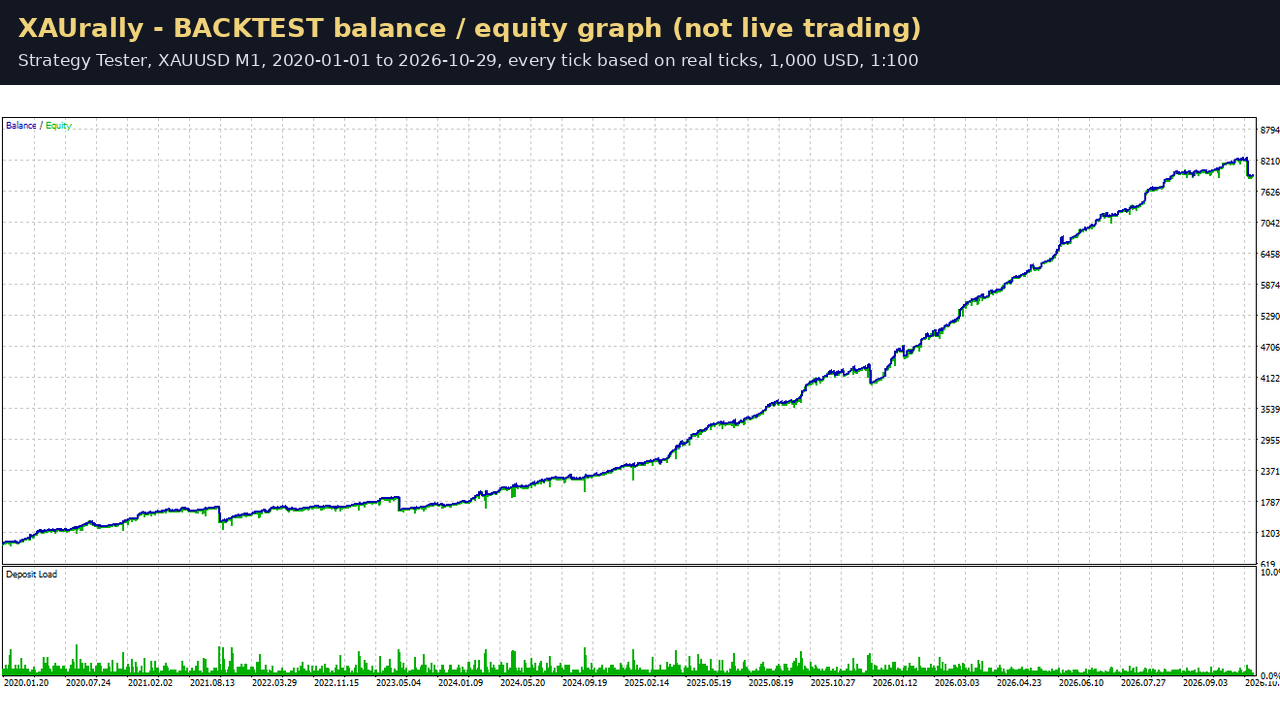
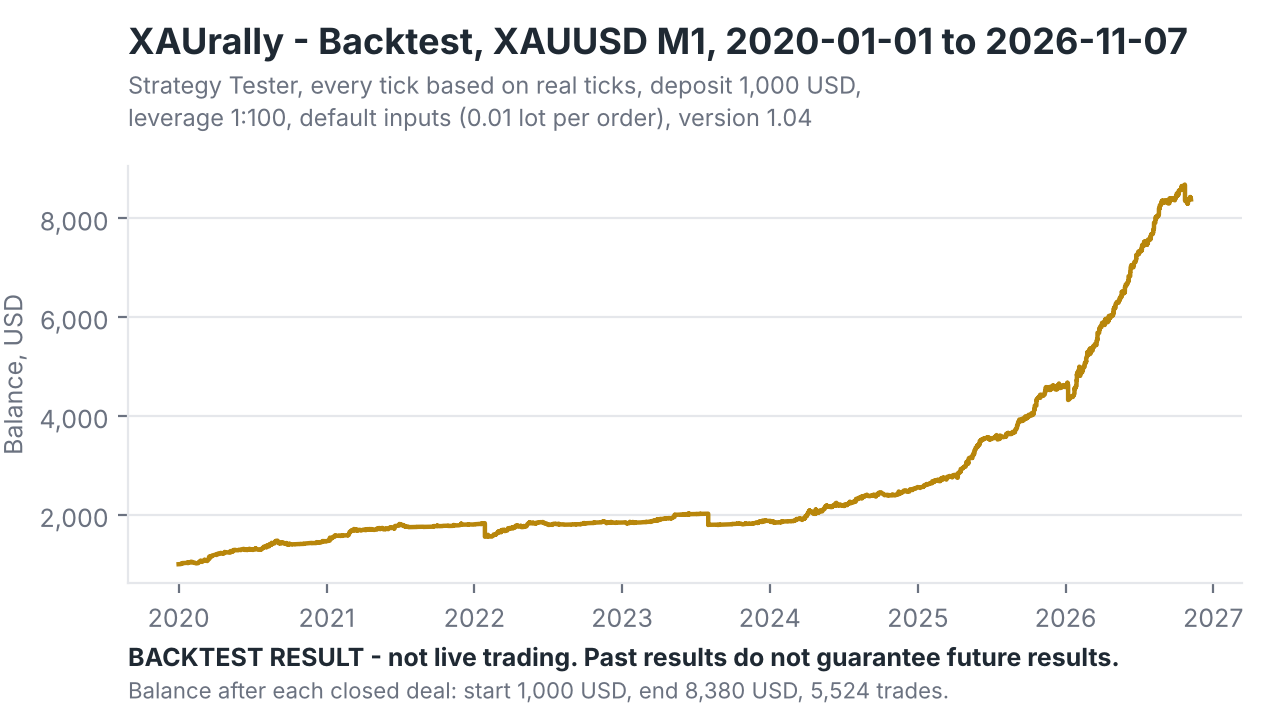
XAUrally page: backtest figures from version 1.04 run (2020 to 7 Nov 2026), add last-12-month charts
Claude-Session: https://claude.ai/code/session_01Db99M4MZdmGM9QKhAh6oVB

diff --git a/xaurally/index.html b/xaurally/index.html
@@ -248,33 +248,33 @@
 
     <figure class="chart" aria-labelledby="chart-cap">
       <div class="plot">
-        <svg viewBox="0 0 1000 300" preserveAspectRatio="none" role="img" aria-label="Backtest balance from 1,000 USD in January 2020 to 7,886 USD in October 2026, with a flat stretch in 2022 and 2023.">
-          <rect class="band" x="293.2" y="0" width="292.8" height="300"/>
+        <svg viewBox="0 0 1000 300" preserveAspectRatio="none" role="img" aria-label="Backtest balance from 1,000 USD in January 2020 to 8,380 USD in November 2026, with a flat stretch in 2022 and 2023.">
+          <rect class="band" x="292.2" y="0" width="291.7" height="300"/>
           <g class="grid">
-<line x1="0" x2="1000" y1="252.6" y2="252.6"/>
-<line x1="0" x2="1000" y1="173.7" y2="173.7"/>
-<line x1="0" x2="1000" y1="94.7" y2="94.7"/>
-<line x1="0" x2="1000" y1="15.8" y2="15.8"/>
+<line x1="0" x2="1000" y1="256.1" y2="256.1"/>
+<line x1="0" x2="1000" y1="182.9" y2="182.9"/>
+<line x1="0" x2="1000" y1="109.8" y2="109.8"/>
+<line x1="0" x2="1000" y1="36.6" y2="36.6"/>
           </g>
-          <path class="line" pathLength="1" d="M0.0,291.7 L2.1,291.0 L4.2,290.9 L6.3,290.9 L8.4,290.6 L10.4,290.1 L12.5,290.8 L14.6,291.0 L16.7,291.5 L18.8,290.6 L20.9,289.5 L23.0,290.1 L25.1,288.4 L27.1,288.9 L29.2,286.3 L31.3,284.7 L33.4,284.5 L35.5,283.9 L37.6,283.3 L39.7,283.0 L41.8,282.8 L43.8,282.0 L45.9,282.5 L48.0,282.7 L50.1,282.7 L52.2,282.1 L54.3,282.1 L56.4,282.4 L58.5,282.5 L60.5,282.4 L62.6,281.8 L64.7,282.2 L66.8,281.8 L68.9,281.6 L71.0,281.7 L73.1,282.3 L75.2,281.8 L77.2,282.6 L79.3,282.3 L81.4,281.8 L83.5,280.1 L85.6,279.7 L87.7,279.5 L89.8,277.9 L91.9,277.1 L93.9,276.3 L96.0,275.4 L98.1,277.5 L100.2,277.0 L102.3,277.9 L104.4,278.5 L106.5,278.7 L108.6,279.0 L110.6,279.5 L112.7,279.5 L114.8,279.5 L116.9,279.3 L119.0,279.3 L121.1,279.3 L123.2,279.0 L125.3,278.8 L127.3,278.8 L129.4,278.7 L131.5,278.6 L133.6,278.6 L135.7,278.2 L137.8,278.1 L139.9,278.0 L142.0,277.3 L144.1,277.5 L146.1,277.4 L148.2,276.1 L150.3,275.4 L152.4,274.6 L154.5,273.6 L156.6,273.8 L158.7,273.8 L160.8,273.8 L162.8,273.4 L164.9,273.4 L167.0,272.7 L169.1,270.5 L171.2,269.9 L173.3,269.0 L175.4,269.6 L177.5,269.3 L179.5,270.2 L181.6,268.9 L183.7,269.3 L185.8,268.8 L187.9,268.3 L190.0,268.3 L192.1,268.6 L194.2,268.9 L196.2,266.9 L198.3,267.8 L200.4,266.8 L202.5,267.6 L204.6,267.7 L206.7,267.7 L208.8,266.8 L210.9,267.2 L212.9,266.8 L215.0,266.6 L217.1,266.5 L219.2,266.2 L221.3,266.7 L223.4,267.2 L225.5,267.6 L227.6,267.9 L229.6,267.9 L231.7,267.9 L233.8,267.9 L235.9,267.6 L238.0,267.6 L240.1,267.5 L242.2,267.8 L244.3,267.7 L246.3,267.7 L248.4,267.7 L250.5,267.6 L252.6,267.2 L254.7,267.1 L256.8,267.0 L258.9,267.0 L261.0,266.8 L263.0,266.8 L265.1,266.9 L267.2,267.1 L269.3,267.1 L271.4,266.8 L273.5,266.7 L275.6,266.7 L277.7,266.5 L279.7,266.1 L281.8,266.1 L283.9,266.1 L286.0,265.9 L288.1,265.9 L290.2,265.9 L292.3,265.7 L294.4,265.5 L296.5,265.3 L298.5,265.3 L300.6,264.9 L302.7,275.5 L304.8,275.3 L306.9,275.4 L309.0,275.4 L311.1,273.8 L313.2,273.6 L315.2,272.9 L317.3,271.6 L319.4,269.9 L321.5,270.0 L323.6,270.7 L325.7,268.7 L327.8,268.7 L329.9,268.9 L331.9,268.6 L334.0,267.0 L336.1,267.7 L338.2,268.2 L340.3,268.7 L342.4,268.1 L344.5,266.9 L346.6,265.1 L348.6,265.8 L350.7,265.9 L352.8,265.9 L354.9,265.1 L357.0,264.6 L359.1,264.7 L361.2,265.6 L363.3,266.1 L365.3,267.3 L367.4,266.3 L369.5,266.7 L371.6,265.9 L373.7,266.3 L375.8,266.2 L377.9,266.7 L380.0,266.6 L382.0,266.9 L384.1,266.9 L386.2,266.8 L388.3,266.8 L390.4,266.7 L392.5,266.8 L394.6,266.7 L396.7,266.7 L398.7,266.3 L400.8,266.0 L402.9,265.8 L405.0,265.7 L407.1,265.7 L409.2,265.7 L411.3,265.3 L413.4,265.1 L415.4,265.1 L417.5,265.0 L419.6,264.4 L421.7,264.5 L423.8,264.7 L425.9,264.8 L428.0,264.4 L430.1,265.0 L432.2,265.2 L434.2,264.8 L436.3,265.0 L438.4,264.9 L440.5,264.8 L442.6,264.8 L444.7,265.6 L446.8,265.2 L448.9,264.9 L450.9,265.0 L453.0,264.8 L455.1,264.8 L457.2,264.7 L459.3,264.5 L461.4,264.5 L463.5,264.4 L465.6,264.4 L467.6,264.1 L469.7,263.1 L471.8,262.9 L473.9,262.5 L476.0,262.2 L478.1,261.5 L480.2,261.3 L482.3,261.3 L484.3,261.4 L486.4,261.1 L488.5,260.8 L490.6,258.7 L492.7,258.7 L494.8,258.7 L496.9,258.6 L499.0,258.8 L501.0,258.6 L503.1,258.3 L505.2,258.2 L507.3,258.2 L509.4,258.2 L511.5,258.1 L513.6,258.1 L515.7,257.9 L517.7,258.0 L519.8,257.9 L521.9,257.9 L524.0,258.0 L526.1,266.7 L528.2,266.7 L530.3,266.7 L532.4,266.7 L534.4,266.7 L536.5,266.5 L538.6,266.4 L540.7,266.4 L542.8,266.4 L544.9,266.2 L547.0,266.2 L549.1,265.9 L551.1,265.9 L553.2,265.7 L555.3,265.7 L557.4,265.7 L559.5,266.2 L561.6,265.7 L563.7,265.7 L565.8,265.7 L567.8,265.6 L569.9,265.3 L572.0,264.8 L574.1,264.8 L576.2,263.4 L578.3,262.8 L580.4,262.4 L582.5,262.3 L584.6,262.8 L586.6,263.2 L588.7,263.3 L590.8,263.9 L592.9,263.6 L595.0,263.6 L597.1,263.2 L599.2,262.9 L601.3,262.8 L603.3,262.9 L605.4,262.7 L607.5,262.6 L609.6,262.1 L611.7,261.1 L613.8,261.0 L615.9,260.9 L618.0,260.6 L620.0,259.6 L622.1,257.7 L624.2,256.0 L626.3,254.4 L628.4,255.7 L630.5,256.4 L632.6,255.2 L634.7,254.2 L636.7,254.5 L638.8,253.4 L640.9,250.8 L643.0,250.9 L645.1,251.0 L647.2,251.3 L649.3,249.6 L651.4,249.4 L653.4,249.5 L655.5,249.3 L657.6,249.7 L659.7,249.2 L661.8,249.8 L663.9,248.2 L666.0,247.5 L668.1,247.5 L670.1,246.6 L672.2,245.6 L674.3,245.0 L676.4,244.5 L678.5,243.6 L680.6,242.6 L682.7,242.9 L684.8,243.4 L686.8,243.3 L688.9,243.1 L691.0,243.6 L693.1,241.8 L695.2,241.7 L697.3,242.1 L699.4,243.8 L701.5,243.5 L703.5,243.6 L705.6,243.8 L707.7,243.2 L709.8,243.9 L711.9,243.3 L714.0,242.2 L716.1,241.7 L718.2,240.5 L720.3,240.4 L722.3,241.2 L724.4,239.7 L726.5,239.9 L728.6,239.2 L730.7,238.6 L732.8,238.0 L734.9,238.7 L737.0,238.4 L739.0,236.9 L741.1,236.0 L743.2,237.0 L745.3,236.0 L747.4,234.4 L749.5,233.5 L751.6,233.8 L753.7,234.3 L755.7,234.1 L757.8,232.1 L759.9,232.9 L762.0,231.5 L764.1,230.3 L766.2,230.8 L768.3,229.7 L770.4,230.5 L772.4,229.7 L774.5,229.2 L776.6,226.1 L778.7,222.7 L780.8,219.7 L782.9,217.4 L785.0,216.0 L787.1,214.9 L789.1,210.9 L791.2,208.5 L793.3,207.3 L795.4,203.2 L797.5,203.0 L799.6,202.3 L801.7,201.9 L803.8,203.3 L805.8,202.9 L807.9,202.4 L810.0,202.1 L812.1,203.4 L814.2,200.5 L816.3,201.3 L818.4,201.8 L820.5,199.3 L822.5,198.7 L824.6,199.1 L826.7,197.4 L828.8,196.9 L830.9,193.1 L833.0,190.1 L835.1,190.0 L837.2,189.4 L839.2,185.9 L841.3,187.0 L843.4,188.2 L845.5,185.7 L847.6,184.2 L849.7,178.8 L851.8,171.8 L853.9,171.9 L855.9,169.8 L858.0,170.7 L860.1,164.3 L862.2,165.7 L864.3,164.2 L866.4,164.6 L868.5,165.4 L870.6,166.3 L872.7,162.8 L874.7,164.0 L876.8,161.6 L878.9,162.2 L881.0,160.1 L883.1,171.8 L885.2,169.9 L887.3,168.2 L889.4,158.9 L891.4,147.8 L893.5,152.0 L895.6,149.3 L897.7,148.1 L899.8,143.6 L901.9,138.2 L904.0,133.7 L906.1,132.7 L908.1,127.2 L910.2,124.4 L912.3,118.3 L914.4,113.4 L916.5,111.0 L918.6,108.4 L920.7,109.0 L922.8,104.1 L924.8,103.2 L926.9,99.2 L929.0,94.3 L931.1,93.7 L933.2,89.8 L935.3,85.1 L937.4,87.7 L939.5,81.4 L941.5,77.7 L943.6,70.0 L945.7,68.0 L947.8,64.4 L949.9,59.2 L952.0,57.2 L954.1,55.2 L956.2,51.7 L958.2,46.3 L960.3,48.2 L962.4,44.9 L964.5,41.9 L966.6,38.0 L968.7,27.7 L970.8,27.2 L972.9,21.5 L974.9,15.5 L977.0,16.7 L979.1,16.9 L981.2,19.0 L983.3,16.4 L985.4,15.2 L987.5,16.2 L989.6,13.3 L991.6,9.9 L993.7,8.8 L995.8,7.1 L997.9,17.9 L1000.0,20.3"/>
+          <path class="line" pathLength="1" d="M0.0,292.6 L2.1,291.8 L4.2,291.8 L6.3,291.7 L8.4,291.4 L10.4,290.8 L12.5,291.4 L14.6,291.8 L16.7,291.9 L18.8,290.6 L20.9,290.4 L23.0,291.0 L25.1,289.9 L27.1,289.6 L29.2,287.0 L31.3,286.2 L33.4,286.0 L35.5,285.9 L37.6,285.2 L39.7,284.3 L41.8,284.8 L43.8,283.6 L45.9,284.0 L48.0,283.8 L50.1,283.4 L52.2,282.2 L54.3,282.4 L56.4,282.4 L58.5,282.0 L60.5,281.7 L62.6,281.3 L64.7,282.1 L66.8,281.8 L68.9,281.6 L71.0,281.6 L73.1,282.1 L75.2,281.4 L77.2,282.0 L79.3,281.9 L81.4,280.9 L83.5,279.8 L85.6,279.3 L87.7,279.0 L89.8,278.1 L91.9,277.3 L93.9,276.0 L96.0,276.2 L98.1,277.1 L100.2,276.7 L102.3,277.3 L104.4,277.1 L106.5,277.8 L108.6,277.6 L110.6,278.0 L112.7,277.9 L114.8,277.9 L116.9,277.8 L119.0,277.7 L121.1,277.7 L123.2,277.4 L125.3,277.3 L127.3,277.3 L129.4,277.2 L131.5,277.1 L133.6,277.1 L135.7,276.4 L137.8,276.5 L139.9,276.4 L142.0,275.7 L144.1,275.7 L146.1,275.5 L148.2,274.2 L150.3,272.9 L152.4,271.8 L154.5,271.5 L156.6,271.7 L158.7,271.6 L160.8,271.5 L162.8,271.4 L164.9,271.3 L167.0,269.8 L169.1,268.1 L171.2,267.9 L173.3,267.7 L175.4,267.3 L177.5,267.2 L179.5,267.8 L181.6,267.2 L183.7,267.4 L185.8,267.1 L187.9,266.7 L190.0,267.0 L192.1,267.2 L194.2,266.8 L196.2,266.1 L198.3,266.2 L200.4,266.5 L202.5,266.8 L204.6,266.5 L206.7,265.7 L208.8,265.9 L210.9,265.7 L212.9,264.4 L215.0,264.2 L217.1,263.3 L219.2,263.5 L221.3,264.4 L223.4,264.9 L225.5,265.0 L227.6,265.2 L229.6,265.2 L231.7,265.2 L233.8,265.0 L235.9,265.0 L238.0,264.9 L240.1,265.0 L242.2,265.0 L244.3,265.0 L246.3,265.0 L248.4,265.0 L250.5,264.9 L252.6,264.5 L254.7,264.4 L256.8,264.5 L258.9,264.5 L261.0,264.3 L263.0,264.3 L265.1,264.2 L267.2,264.4 L269.3,264.3 L271.4,264.0 L273.5,264.0 L275.6,263.9 L277.7,263.4 L279.7,263.4 L281.8,263.4 L283.9,263.4 L286.0,263.2 L288.1,263.2 L290.2,263.4 L292.3,263.2 L294.4,263.0 L296.5,262.8 L298.5,262.5 L300.6,262.4 L302.7,272.1 L304.8,272.2 L306.9,272.2 L309.0,271.9 L311.1,270.7 L313.2,269.9 L315.2,269.0 L317.3,268.6 L319.4,267.6 L321.5,268.0 L323.6,266.8 L325.7,265.9 L327.8,265.9 L329.9,265.6 L331.9,264.1 L334.0,264.4 L336.1,264.7 L338.2,265.3 L340.3,265.0 L342.4,264.0 L344.5,262.7 L346.6,262.0 L348.6,262.3 L350.7,262.4 L352.8,262.0 L354.9,262.0 L357.0,261.5 L359.1,261.5 L361.2,262.7 L363.3,263.0 L365.3,263.2 L367.4,263.6 L369.5,262.7 L371.6,262.9 L373.7,262.9 L375.8,263.3 L377.9,263.2 L380.0,263.4 L382.0,263.4 L384.1,263.4 L386.2,263.3 L388.3,263.3 L390.4,263.3 L392.5,263.1 L394.6,263.1 L396.7,263.0 L398.7,262.7 L400.8,262.5 L402.9,262.3 L405.0,262.2 L407.1,262.2 L409.2,262.1 L411.3,261.8 L413.4,261.8 L415.4,261.8 L417.5,261.5 L419.6,261.3 L421.7,261.8 L423.8,261.9 L425.9,261.6 L428.0,261.9 L430.1,261.9 L432.2,262.0 L434.2,261.9 L436.3,261.8 L438.4,261.7 L440.5,261.6 L442.6,262.3 L444.7,261.5 L446.8,262.0 L448.9,262.1 L450.9,261.9 L453.0,261.8 L455.1,261.8 L457.2,261.6 L459.3,261.6 L461.4,261.4 L463.5,261.4 L465.6,261.3 L467.6,260.6 L469.7,260.2 L471.8,260.2 L473.9,259.9 L476.0,259.2 L478.1,259.1 L480.2,258.8 L482.3,258.8 L484.3,258.7 L486.4,258.4 L488.5,258.1 L490.6,255.9 L492.7,256.0 L494.8,256.1 L496.9,255.9 L499.0,255.9 L501.0,255.7 L503.1,255.6 L505.2,255.6 L507.3,255.6 L509.4,255.6 L511.5,255.6 L513.6,255.4 L515.7,255.4 L517.7,255.4 L519.8,255.4 L521.9,255.3 L524.0,263.5 L526.1,263.5 L528.2,263.5 L530.3,263.5 L532.4,263.6 L534.4,263.4 L536.5,263.4 L538.6,263.3 L540.7,263.4 L542.8,263.2 L544.9,263.2 L547.0,262.9 L549.1,262.9 L551.1,262.7 L553.2,262.7 L555.3,262.7 L557.4,263.2 L559.5,262.8 L561.6,262.8 L563.7,262.7 L565.8,262.6 L567.8,262.4 L569.9,261.9 L572.0,261.9 L574.1,261.1 L576.2,260.7 L578.3,260.3 L580.4,260.4 L582.5,260.6 L584.6,261.4 L586.6,261.3 L588.7,261.9 L590.8,261.8 L592.9,261.7 L595.0,261.4 L597.1,261.1 L599.2,261.0 L601.3,261.1 L603.3,260.9 L605.4,260.8 L607.5,260.3 L609.6,259.2 L611.7,259.3 L613.8,259.2 L615.9,259.2 L618.0,258.3 L620.0,256.5 L622.1,253.9 L624.2,253.4 L626.3,255.2 L628.4,255.4 L630.5,254.3 L632.6,253.1 L634.7,253.4 L636.7,252.3 L638.8,249.9 L640.9,249.8 L643.0,250.1 L645.1,250.3 L647.2,249.1 L649.3,249.0 L651.4,249.0 L653.4,248.8 L655.5,249.4 L657.6,248.7 L659.7,248.9 L661.8,248.1 L663.9,247.2 L666.0,246.5 L668.1,245.7 L670.1,244.2 L672.2,243.4 L674.3,243.3 L676.4,242.7 L678.5,241.6 L680.6,242.2 L682.7,242.0 L684.8,241.7 L686.8,241.1 L688.9,241.1 L691.0,240.3 L693.1,239.4 L695.2,240.1 L697.3,241.5 L699.4,241.3 L701.5,241.9 L703.5,241.7 L705.6,241.6 L707.7,241.3 L709.8,241.2 L711.9,240.2 L714.0,239.7 L716.1,238.4 L718.2,238.7 L720.3,238.8 L722.3,237.5 L724.4,237.1 L726.5,236.7 L728.6,236.3 L730.7,235.6 L732.8,235.7 L734.9,235.6 L737.0,234.1 L739.0,233.5 L741.1,233.2 L743.2,232.9 L745.3,231.9 L747.4,230.5 L749.5,230.0 L751.6,231.3 L753.7,230.2 L755.7,228.8 L757.8,229.6 L759.9,228.5 L762.0,227.4 L764.1,227.0 L766.2,226.6 L768.3,227.6 L770.4,224.8 L772.4,222.2 L774.5,221.4 L776.6,220.7 L778.7,218.5 L780.8,214.0 L782.9,213.5 L785.0,212.0 L787.1,206.4 L789.1,205.5 L791.2,201.4 L793.3,200.5 L795.4,199.5 L797.5,199.3 L799.6,199.7 L801.7,200.3 L803.8,199.4 L805.8,198.4 L807.9,198.6 L810.0,200.0 L812.1,197.4 L814.2,198.7 L816.3,198.2 L818.4,196.4 L820.5,196.4 L822.5,195.9 L824.6,194.9 L826.7,193.0 L828.8,189.1 L830.9,186.7 L833.0,185.1 L835.1,185.5 L837.2,185.0 L839.2,182.1 L841.3,182.0 L843.4,181.7 L845.5,175.2 L847.6,170.5 L849.7,169.2 L851.8,167.1 L853.9,167.7 L855.9,164.8 L858.0,162.0 L860.1,163.7 L862.2,162.3 L864.3,160.8 L866.4,163.1 L868.5,160.2 L870.6,161.9 L872.7,160.9 L874.7,160.4 L876.8,161.5 L878.9,170.9 L881.0,168.7 L883.1,168.9 L885.2,162.2 L887.3,152.9 L889.4,148.8 L891.4,151.0 L893.5,146.5 L895.6,143.7 L897.7,135.7 L899.8,134.3 L901.9,134.2 L904.0,131.7 L906.1,130.2 L908.1,121.4 L910.2,117.1 L912.3,114.7 L914.4,114.8 L916.5,112.9 L918.6,109.2 L920.7,109.4 L922.8,108.5 L924.8,102.9 L926.9,98.5 L929.0,97.3 L931.1,94.5 L933.2,91.9 L935.3,86.5 L937.4,84.0 L939.5,79.6 L941.5,72.8 L943.6,69.6 L945.7,67.0 L947.8,63.4 L949.9,60.9 L952.0,57.0 L954.1,54.0 L956.2,55.4 L958.2,52.5 L960.3,49.5 L962.4,47.4 L964.5,39.8 L966.6,35.0 L968.7,29.1 L970.8,24.9 L972.9,24.3 L974.9,24.7 L977.0,23.8 L979.1,22.0 L981.2,22.9 L983.3,23.1 L985.4,20.3 L987.5,17.7 L989.6,15.9 L991.6,13.5 L993.7,12.5 L995.8,23.3 L997.9,22.6 L1000.0,22.7"/>
         </svg>
-<span class="gl" style="top:57.90%">4,000</span>
-<span class="gl" style="top:31.57%">6,000</span>
-<span class="gl" style="top:5.27%">8,000</span>
-        <span class="band-note" style="left:29.32%">2022 and 2023<br>+19 and +53 USD</span>
-        <span class="pt pt-start" style="top:97.37%">1,000 USD<small>January 2020</small></span>
-        <span class="pt pt-end" style="top:6.77%">7,886 USD<small>29 October 2026</small></span>
+<span class="gl" style="top:60.97%">4,000</span>
+<span class="gl" style="top:36.60%">6,000</span>
+<span class="gl" style="top:12.20%">8,000</span>
+        <span class="band-note" style="left:29.22%">2022 and 2023<br>+36 and +34 USD</span>
+        <span class="pt pt-start" style="top:97.57%">1,000 USD<small>January 2020</small></span>
+        <span class="pt pt-end" style="top:7.57%">8,380 USD<small>7 November 2026</small></span>
       </div>
       <div class="years" aria-hidden="true">
 <span class="yr" style="left:0.00%">2020</span>
-<span class="yr" style="left:14.68%">2021</span>
-<span class="yr" style="left:29.32%">2022</span>
-<span class="yr" style="left:43.96%">2023</span>
-<span class="yr" style="left:58.60%">2024</span>
-<span class="yr" style="left:73.29%">2025</span>
-<span class="yr" style="left:87.93%">2026</span>
+<span class="yr" style="left:14.63%">2021</span>
+<span class="yr" style="left:29.22%">2022</span>
+<span class="yr" style="left:43.80%">2023</span>
+<span class="yr" style="left:58.39%">2024</span>
+<span class="yr" style="left:73.02%">2025</span>
+<span class="yr" style="left:87.61%">2026</span>
       </div>
-      <figcaption class="caption" id="chart-cap"><strong>Backtest, not live trading.</strong> Balance after each closed deal. XAUUSD M1, 1 January 2020 to 29 October 2026, every tick based on real ticks (history quality 99%), 1,000 USD deposit, leverage 1:100, default inputs with 0.01 lot per order.</figcaption>
+      <figcaption class="caption" id="chart-cap"><strong>Backtest, not live trading.</strong> Balance after each closed deal. XAUUSD M1, 1 January 2020 to 7 November 2026, every tick based on real ticks (history quality 99%), 1,000 USD deposit, leverage 1:100, default inputs with 0.01 lot per order, version 1.04 (the version on sale).</figcaption>
     </figure>
   </div>
 </header>
@@ -287,40 +287,44 @@
 
       <div class="report-grid">
         <dl class="figures">
-          <div class="bad"><dt>Largest equity drawdown</dt><dd>24.09% (407.83 USD)</dd></div>
-          <div class="bad"><dt>Longest losing streak</dt><dd>13 trades (−338.25 USD)</dd></div>
+          <div class="bad"><dt>Largest balance drawdown</dt><dd>4.48% (388.92 USD)</dd></div>
+          <div class="bad"><dt>Longest losing streak</dt><dd>12 trades (−329.39 USD)</dd></div>
           <div class="bad"><dt>Largest losing trade</dt><dd>−181.30 USD</dd></div>
-          <div><dt>Total net profit</dt><dd>6,886.03 USD</dd></div>
-          <div><dt>Gross profit / gross loss</dt><dd>16,575.70 / −9,689.67 USD</dd></div>
-          <div><dt>Profit factor</dt><dd>1.71</dd></div>
-          <div><dt>Recovery factor</dt><dd>16.88</dd></div>
-          <div><dt>Trades</dt><dd>5,598 (69.51% profitable)</dd></div>
-          <div><dt>History quality</dt><dd>99% (399 million ticks)</dd></div>
+          <div><dt>Total net profit</dt><dd>7,380.20 USD</dd></div>
+          <div><dt>Gross profit / gross loss</dt><dd>16,553.54 / −9,173.34 USD</dd></div>
+          <div><dt>Profit factor</dt><dd>1.80</dd></div>
+          <div><dt>Recovery factor (balance)</dt><dd>18.98</dd></div>
+          <div><dt>Trades</dt><dd>5,524 (69.66% profitable)</dd></div>
+          <div><dt>Losing months</dt><dd>2 of the last 13 (Oct 2026: −52 USD)</dd></div>
         </dl>
 
         <div class="years-bars">
           <h3>Closed profit per year</h3>
-          <div class="yb"><span>2020</span><span class="track"><span class="fill" style="width:10.4%"></span><span class="val">+374 USD</span></span></div>
-          <div class="yb"><span>2021</span><span class="track"><span class="fill" style="width:8.2%"></span><span class="val">+296 USD</span></span></div>
-          <div class="yb flat"><span>2022</span><span class="track"><span class="fill" style="width:0.5%"></span><span class="val">+19 USD</span></span></div>
-          <div class="yb flat"><span>2023</span><span class="track"><span class="fill" style="width:1.5%"></span><span class="val">+53 USD</span></span></div>
-          <div class="yb"><span>2024</span><span class="track"><span class="fill" style="width:17.6%"></span><span class="val">+631 USD</span></span></div>
-          <div class="yb"><span>2025</span><span class="track"><span class="fill" style="width:53.4%"></span><span class="val">+1,920 USD</span></span></div>
-          <div class="yb"><span>2026*</span><span class="track"><span class="fill" style="width:85%"></span><span class="val">+3,594 USD</span></span></div>
-          <p class="note">* 2026 until 29 October. Swap and commission included. Calm, low-volatility years such as 2022 and 2023 earned almost nothing, and some 12-month periods in the test ended with a loss.</p>
+          <div class="yb"><span>2020</span><span class="track"><span class="fill" style="width:12.3%"></span><span class="val">+468 USD</span></span></div>
+          <div class="yb"><span>2021</span><span class="track"><span class="fill" style="width:8.9%"></span><span class="val">+339 USD</span></span></div>
+          <div class="yb flat"><span>2022</span><span class="track"><span class="fill" style="width:0.9%"></span><span class="val">+36 USD</span></span></div>
+          <div class="yb flat"><span>2023</span><span class="track"><span class="fill" style="width:0.9%"></span><span class="val">+34 USD</span></span></div>
+          <div class="yb"><span>2024</span><span class="track"><span class="fill" style="width:18.0%"></span><span class="val">+684 USD</span></span></div>
+          <div class="yb"><span>2025</span><span class="track"><span class="fill" style="width:53.4%"></span><span class="val">+2,025 USD</span></span></div>
+          <div class="yb"><span>2026*</span><span class="track"><span class="fill" style="width:85%"></span><span class="val">+3,794 USD</span></span></div>
+          <p class="note">* 2026 until 7 November. Swap and commission included. Calm, low-volatility years such as 2022 and 2023 earned almost nothing, and some 12-month periods in the test ended with a loss.</p>
         </div>
       </div>
 
-      <p class="note">Tested with version 1.01, the first Market release. The current version, 1.04, checks every order request more strictly before it is sent. An updated report will replace this one.</p>
+      <p class="note">Tested with version 1.04, the version on sale, on 8 November 2026. The balance drawdown is computed from the test cache; the equity drawdown of the earlier 1.01 test was 24.09%, and the 1.04 figure will be added from the Strategy Tester report.</p>
 
       <div class="shots">
         <figure>
-          <a href="assets/mt5-backtest-graph.png" target="_blank" rel="noopener"><img src="assets/mt5-backtest-graph.png" width="1280" height="720" loading="lazy" alt="MetaTrader 5 Strategy Tester graph of the XAUrally backtest balance and equity, 2020 to 2026"></a>
-          <figcaption>Strategy Tester graph, balance and equity (opens full size)</figcaption>
+          <a href="assets/mt5-backtest-graph.png" target="_blank" rel="noopener"><img src="assets/mt5-backtest-graph.png" width="1280" height="720" loading="lazy" alt="XAUrally backtest balance curve, 2020 to November 2026, version 1.04"></a>
+          <figcaption>Balance curve from the test cache, 2020 to 2026 (opens full size)</figcaption>
         </figure>
         <figure>
-          <a href="assets/mt5-backtest-report.png" target="_blank" rel="noopener"><img src="assets/mt5-backtest-report.png" width="1280" height="720" loading="lazy" alt="MetaTrader 5 Strategy Tester report of the XAUrally backtest with profit factor, drawdown and trade statistics"></a>
-          <figcaption>Strategy Tester report (opens full size)</figcaption>
+          <a href="assets/bt104-last12.png" target="_blank" rel="noopener"><img src="assets/bt104-last12.png" width="1280" height="720" loading="lazy" alt="XAUrally backtest balance over the last 12 months, November 2025 to November 2026"></a>
+          <figcaption>Last 12 months of the same test, balance 4,432 to 8,380 USD (opens full size)</figcaption>
+        </figure>
+        <figure>
+          <a href="assets/bt104-monthly12.png" target="_blank" rel="noopener"><img src="assets/bt104-monthly12.png" width="1280" height="720" loading="lazy" alt="XAUrally backtest closed profit per month for the last 12 months, including the losing month October 2026"></a>
+          <figcaption>Closed profit per month, last 12 months, losing month included (opens full size)</figcaption>
         </figure>
       </div>
     </div>
